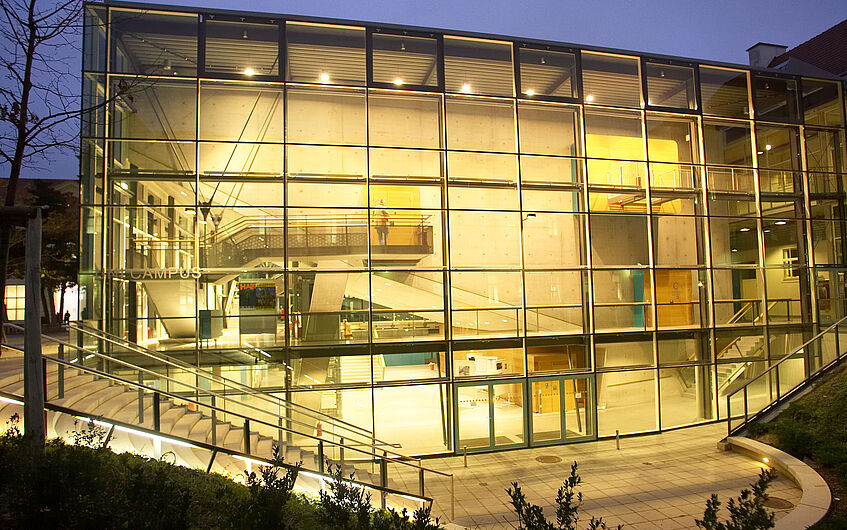
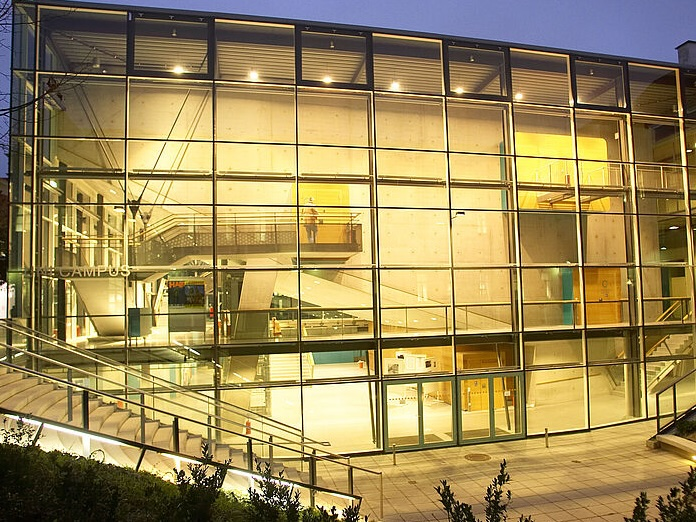
Updated news

diff --git a/news.html b/news.html
@@ -90,8 +90,9 @@ page_title: News | MLQC4FC
                 var $news = jQuery('.news-carousel');
                 if ($news.length && !$news.hasClass('owl-loaded')) {
                     $news.owlCarousel({
-                        autoplay: true,
-                        smartSpeed: 1000,
+                        autoplay: false,
+                        autoplayTimeout: 7000,
+                        smartSpeed: 1500,
                         center: false,
                         dots: false,
                         loop: true,

diff --git a/js/main.js b/js/main.js
@@ -61,8 +61,9 @@
 
     // News carousel
     $(".news-carousel").owlCarousel({
-        autoplay: true,
-        smartSpeed: 1000,
+        autoplay: false,
+        autoplayTimeout: 7000,
+        smartSpeed: 1500,
         center: false,
         dots: false,
         loop: true,
